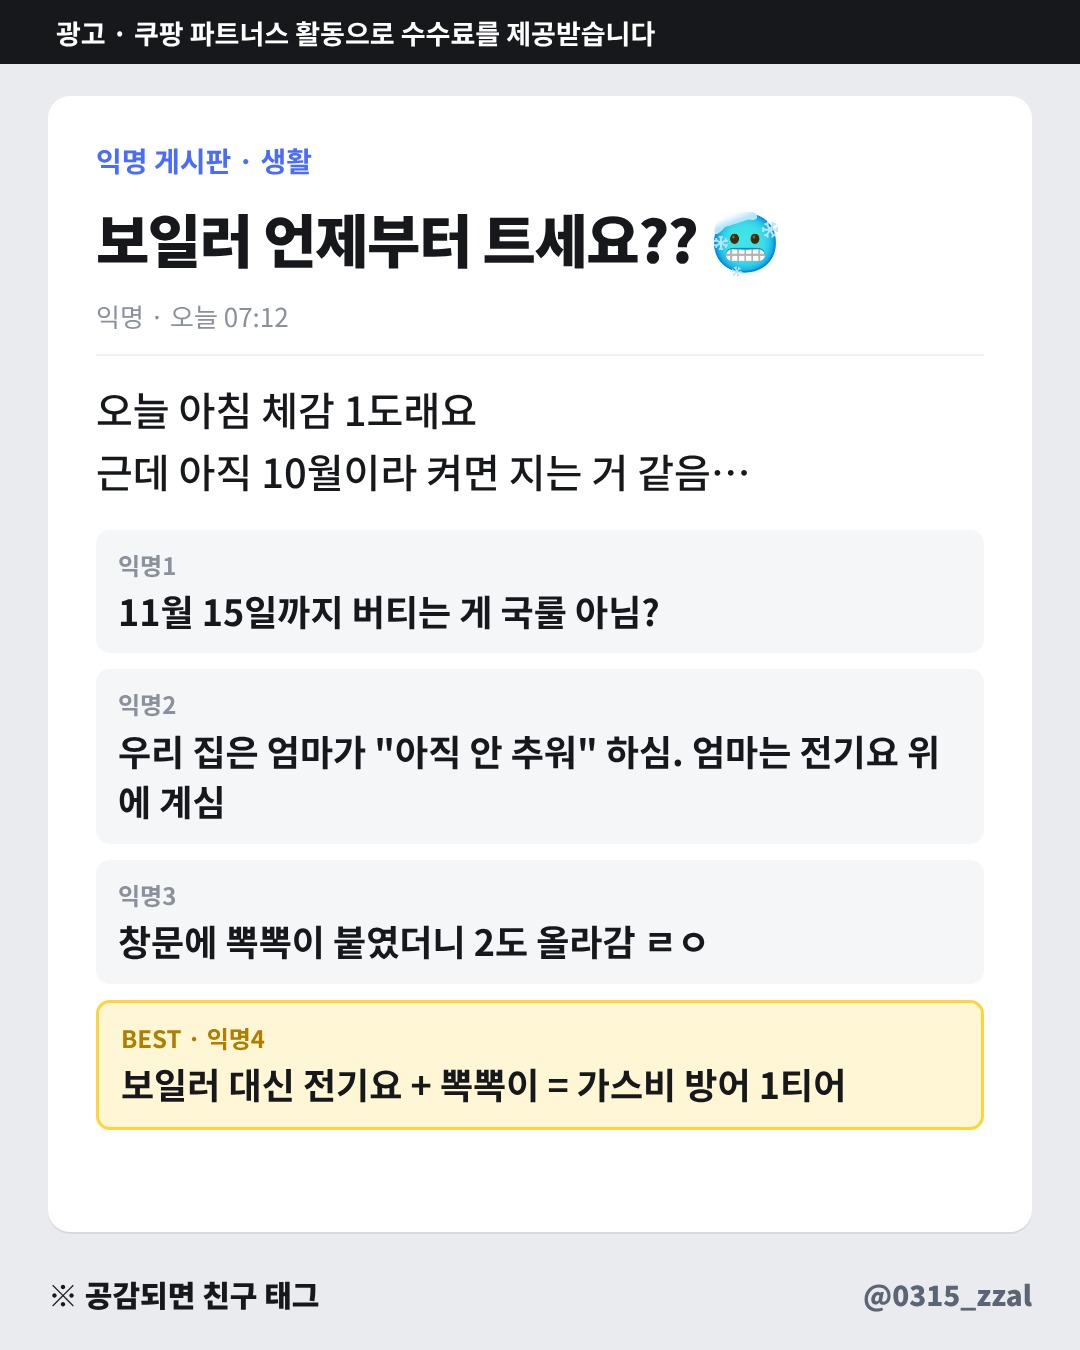
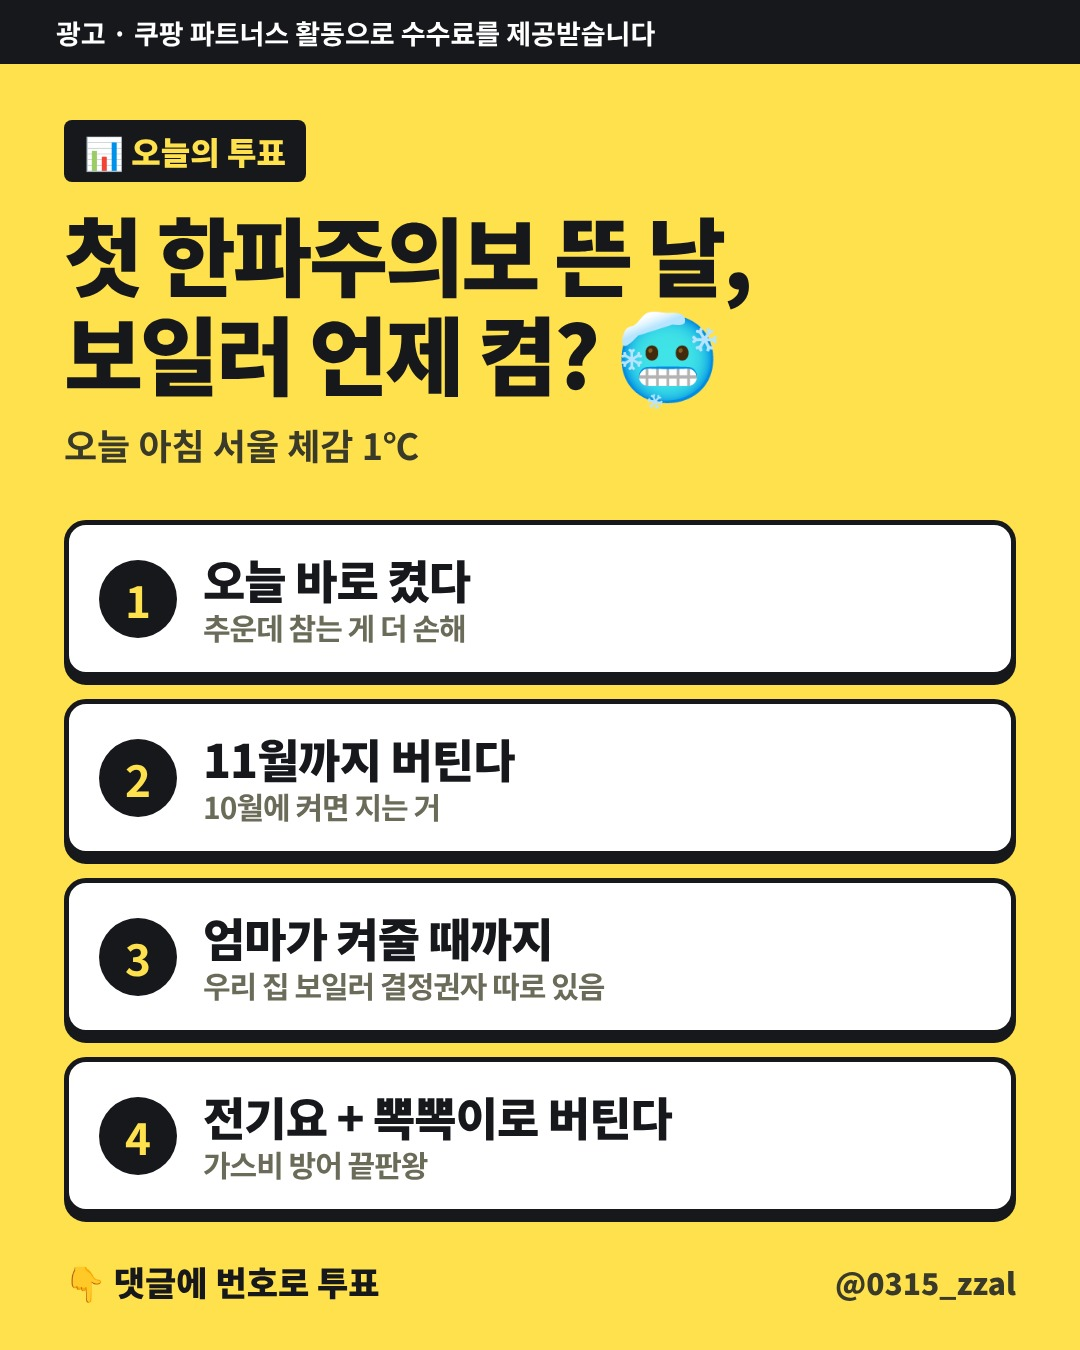
10/22 짤을 투표형으로 변경
Claude-Session: https://claude.ai/code/session_01KxSwLr9DfWSMf1EfiV4S9g

diff --git a/docs/posts/2026-10-22/B/slides/01.html b/docs/posts/2026-10-22/B/slides/01.html
@@ -1,27 +1,21 @@
 <!doctype html><html><head><meta charset="utf-8"><style>*{box-sizing:border-box;margin:0;padding:0}html,body{width:1080px;height:1350px;overflow:hidden}
 body{font-family:'Noto Sans CJK KR','Noto Color Emoji',sans-serif;position:relative;-webkit-font-smoothing:antialiased}
-.ad{position:absolute;left:0;right:0;top:0;height:64px;display:flex;align-items:center;padding:0 56px;font-size:27px;font-weight:700;z-index:5}body{background:#e9ebef;color:#16181c}.ad{background:#16181c;color:#fff}
-.card{position:absolute;left:48px;right:48px;top:96px;bottom:118px;background:#fff;border-radius:22px;padding:44px 48px;display:flex;flex-direction:column;gap:22px;box-shadow:0 2px 0 #d5d9e0}
-.board{font-size:28px;font-weight:700;color:#4b6bfb}
-.title{font-size:58px;font-weight:900;letter-spacing:-1.5px;line-height:1.25}
-.meta{font-size:26px;color:#8a919c;border-bottom:2px solid #eef0f3;padding-bottom:20px}
-.text{font-size:40px;line-height:1.55;font-weight:500}
-.cmts{display:flex;flex-direction:column;gap:16px;margin-top:6px}
-.c{background:#f5f6f8;border-radius:14px;padding:18px 22px;font-size:36px;line-height:1.4;font-weight:600}
-.c i{font-style:normal;display:block;font-size:24px;color:#8a919c;font-weight:700;margin-bottom:4px}
-.c.best{background:#fff6d6;border:3px solid #ffd43b}.c.best i{color:#b07d00}
-.foot{position:absolute;left:48px;right:48px;bottom:34px;display:flex;justify-content:space-between;align-items:center;font-size:30px;font-weight:800}
-.foot span:last-child{color:#5b6573;font-size:28px}</style></head><body><div class="ad">광고 · 쿠팡 파트너스 활동으로 수수료를 제공받습니다</div>
-<div class="card">
- <div class="board">익명 게시판 · 생활</div>
- <div class="title">보일러 언제부터 트세요?? 🥶</div>
- <div class="meta">익명 · 오늘 07:12</div>
- <div class="text">오늘 아침 체감 1도래요<br>근데 아직 10월이라 켜면 지는 거 같음…</div>
- <div class="cmts">
-  <div class="c"><i>익명1</i>11월 15일까지 버티는 게 국룰 아님?</div>
-  <div class="c"><i>익명2</i>우리 집은 엄마가 "아직 안 추워" 하심. 엄마는 전기요 위에 계심</div>
-  <div class="c"><i>익명3</i>창문에 뽁뽁이 붙였더니 2도 올라감 ㄹㅇ</div>
-  <div class="c best"><i>BEST · 익명4</i>보일러 대신 전기요 + 뽁뽁이 = 가스비 방어 1티어</div>
- </div>
+.ad{position:absolute;left:0;right:0;top:0;height:64px;display:flex;align-items:center;padding:0 56px;font-size:27px;font-weight:700;z-index:5}body{background:#ffe14d;color:#16181c}.ad{background:#16181c;color:#fff}
+.q{position:absolute;left:64px;right:64px;top:120px}
+.q small{display:inline-block;background:#16181c;color:#ffe14d;font-size:32px;font-weight:900;padding:8px 20px;border-radius:8px;margin-bottom:22px}
+.q h1{font-size:86px;font-weight:900;letter-spacing:-3px;line-height:1.15}
+.q p{font-size:36px;font-weight:700;margin-top:16px;color:#3a3a2a}
+.opts{position:absolute;left:64px;right:64px;top:520px;display:flex;flex-direction:column;gap:22px}
+.o{background:#fff;border:5px solid #16181c;border-radius:22px;padding:26px 30px;display:flex;align-items:center;gap:26px;box-shadow:0 8px 0 #16181c}
+.o b{flex:none;width:78px;height:78px;border-radius:50%;background:#16181c;color:#ffe14d;font-size:44px;display:grid;place-items:center}
+.o span{font-size:46px;font-weight:900;letter-spacing:-1px;line-height:1.25}.o em{display:block;font-style:normal;font-size:30px;font-weight:700;color:#6b6b5a}
+.foot{position:absolute;left:64px;right:64px;bottom:44px;display:flex;justify-content:space-between;align-items:center;font-size:34px;font-weight:900}
+.foot span:last-child{font-size:30px;color:#3a3a2a}</style></head><body><div class="ad">광고 · 쿠팡 파트너스 활동으로 수수료를 제공받습니다</div>
+<div class="q"><small>📊 오늘의 투표</small><h1>첫 한파주의보 뜬 날,<br>보일러 언제 켬? 🥶</h1><p>오늘 아침 서울 체감 1℃</p></div>
+<div class="opts">
+ <div class="o"><b>1</b><span>오늘 바로 켰다<em>추운데 참는 게 더 손해</em></span></div>
+ <div class="o"><b>2</b><span>11월까지 버틴다<em>10월에 켜면 지는 거</em></span></div>
+ <div class="o"><b>3</b><span>엄마가 켜줄 때까지<em>우리 집 보일러 결정권자 따로 있음</em></span></div>
+ <div class="o"><b>4</b><span>전기요 + 뽁뽁이로 버틴다<em>가스비 방어 끝판왕</em></span></div>
 </div>
-<div class="foot"><span>※ 공감되면 친구 태그</span><span>@0315_zzal</span></div></body></html>
+<div class="foot"><span>👇 댓글에 번호로 투표</span><span>@0315_zzal</span></div></body></html>

diff --git a/content/make_2026-10-22.py b/content/make_2026-10-22.py
@@ -111,45 +111,43 @@ write("A", a_slides, {
     ],
 })
 
-# ───────────── B · 커뮤니티 글 형식 공감짤 ─────────────
-B_CSS = """body{background:#e9ebef;color:#16181c}.ad{background:#16181c;color:#fff}
-.card{position:absolute;left:48px;right:48px;top:96px;bottom:118px;background:#fff;border-radius:22px;padding:44px 48px;display:flex;flex-direction:column;gap:22px;box-shadow:0 2px 0 #d5d9e0}
-.board{font-size:28px;font-weight:700;color:#4b6bfb}
-.title{font-size:58px;font-weight:900;letter-spacing:-1.5px;line-height:1.25}
-.meta{font-size:26px;color:#8a919c;border-bottom:2px solid #eef0f3;padding-bottom:20px}
-.text{font-size:40px;line-height:1.55;font-weight:500}
-.cmts{display:flex;flex-direction:column;gap:16px;margin-top:6px}
-.c{background:#f5f6f8;border-radius:14px;padding:18px 22px;font-size:36px;line-height:1.4;font-weight:600}
-.c i{font-style:normal;display:block;font-size:24px;color:#8a919c;font-weight:700;margin-bottom:4px}
-.c.best{background:#fff6d6;border:3px solid #ffd43b}.c.best i{color:#b07d00}
-.foot{position:absolute;left:48px;right:48px;bottom:34px;display:flex;justify-content:space-between;align-items:center;font-size:30px;font-weight:800}
-.foot span:last-child{color:#5b6573;font-size:28px}"""
+# ───────────── B · 투표형 공감짤 ─────────────
+B_CSS = """body{background:#ffe14d;color:#16181c}.ad{background:#16181c;color:#fff}
+.q{position:absolute;left:64px;right:64px;top:120px}
+.q small{display:inline-block;background:#16181c;color:#ffe14d;font-size:32px;font-weight:900;padding:8px 20px;border-radius:8px;margin-bottom:22px}
+.q h1{font-size:86px;font-weight:900;letter-spacing:-3px;line-height:1.15}
+.q p{font-size:36px;font-weight:700;margin-top:16px;color:#3a3a2a}
+.opts{position:absolute;left:64px;right:64px;top:520px;display:flex;flex-direction:column;gap:22px}
+.o{background:#fff;border:5px solid #16181c;border-radius:22px;padding:26px 30px;display:flex;align-items:center;gap:26px;box-shadow:0 8px 0 #16181c}
+.o b{flex:none;width:78px;height:78px;border-radius:50%;background:#16181c;color:#ffe14d;font-size:44px;display:grid;place-items:center}
+.o span{font-size:46px;font-weight:900;letter-spacing:-1px;line-height:1.25}.o em{display:block;font-style:normal;font-size:30px;font-weight:700;color:#6b6b5a}
+.foot{position:absolute;left:64px;right:64px;bottom:44px;display:flex;justify-content:space-between;align-items:center;font-size:34px;font-weight:900}
+.foot span:last-child{font-size:30px;color:#3a3a2a}"""
 b_slide = page(B_CSS, f"""<div class="ad">{AD}</div>
-<div class="card">
- <div class="board">익명 게시판 · 생활</div>
- <div class="title">보일러 언제부터 트세요?? 🥶</div>
- <div class="meta">익명 · 오늘 07:12</div>
- <div class="text">오늘 아침 체감 1도래요<br>근데 아직 10월이라 켜면 지는 거 같음…</div>
- <div class="cmts">
-  <div class="c"><i>익명1</i>11월 15일까지 버티는 게 국룰 아님?</div>
-  <div class="c"><i>익명2</i>우리 집은 엄마가 "아직 안 추워" 하심. 엄마는 전기요 위에 계심</div>
-  <div class="c"><i>익명3</i>창문에 뽁뽁이 붙였더니 2도 올라감 ㄹㅇ</div>
-  <div class="c best"><i>BEST · 익명4</i>보일러 대신 전기요 + 뽁뽁이 = 가스비 방어 1티어</div>
- </div>
+<div class="q"><small>📊 오늘의 투표</small><h1>첫 한파주의보 뜬 날,<br>보일러 언제 켬? 🥶</h1><p>오늘 아침 서울 체감 1℃</p></div>
+<div class="opts">
+ <div class="o"><b>1</b><span>오늘 바로 켰다<em>추운데 참는 게 더 손해</em></span></div>
+ <div class="o"><b>2</b><span>11월까지 버틴다<em>10월에 켜면 지는 거</em></span></div>
+ <div class="o"><b>3</b><span>엄마가 켜줄 때까지<em>우리 집 보일러 결정권자 따로 있음</em></span></div>
+ <div class="o"><b>4</b><span>전기요 + 뽁뽁이로 버틴다<em>가스비 방어 끝판왕</em></span></div>
 </div>
-<div class="foot"><span>※ 공감되면 친구 태그</span><span>@0315_zzal</span></div>""")
+<div class="foot"><span>👇 댓글에 번호로 투표</span><span>@0315_zzal</span></div>""")
 b_caption = f"""{DISC}
 
-첫 한파주의보 뜬 날 아침 국룰 토론 🥶
-여러분은 보일러 언제 트세요?
-1⃣ 벌써 켬  2⃣ 11월까지 버팀  3⃣ 전기요로 겨울 남
+📊 첫 한파주의보 뜬 날, 보일러 언제 켬? 🥶
+댓글에 번호로 투표해주세요!
 
-🔗 짤 속 전기요·뽁뽁이 링크는 프로필에
-👥 우리 집 보일러 담당 태그
+1⃣ 오늘 바로 켰다
+2⃣ 11월까지 버틴다
+3⃣ 엄마가 켜줄 때까지
+4⃣ 전기요 + 뽁뽁이로 버틴다
 
-#광고 #공감짤 #보일러 #한파주의보 #자취 #가스비"""
+🔗 4번 전기요·뽁뽁이 링크는 프로필에
+👥 우리 집 보일러 결정권자 태그
+
+#광고 #투표 #공감 #보일러 #한파주의보 #가스비 #자취"""
 write("B", [b_slide], {
-    "title": "보일러 언제부터 트세요",
+    "title": "보일러 언제 켬? 투표",
     "caption": b_caption,
     "products": [
         {"no": 1, "name": "한일 탄소열선 전기요 (싱글)", "coupang_url": "https://www.coupang.com/vp/products/9150828084", "affiliate_url": ""},
